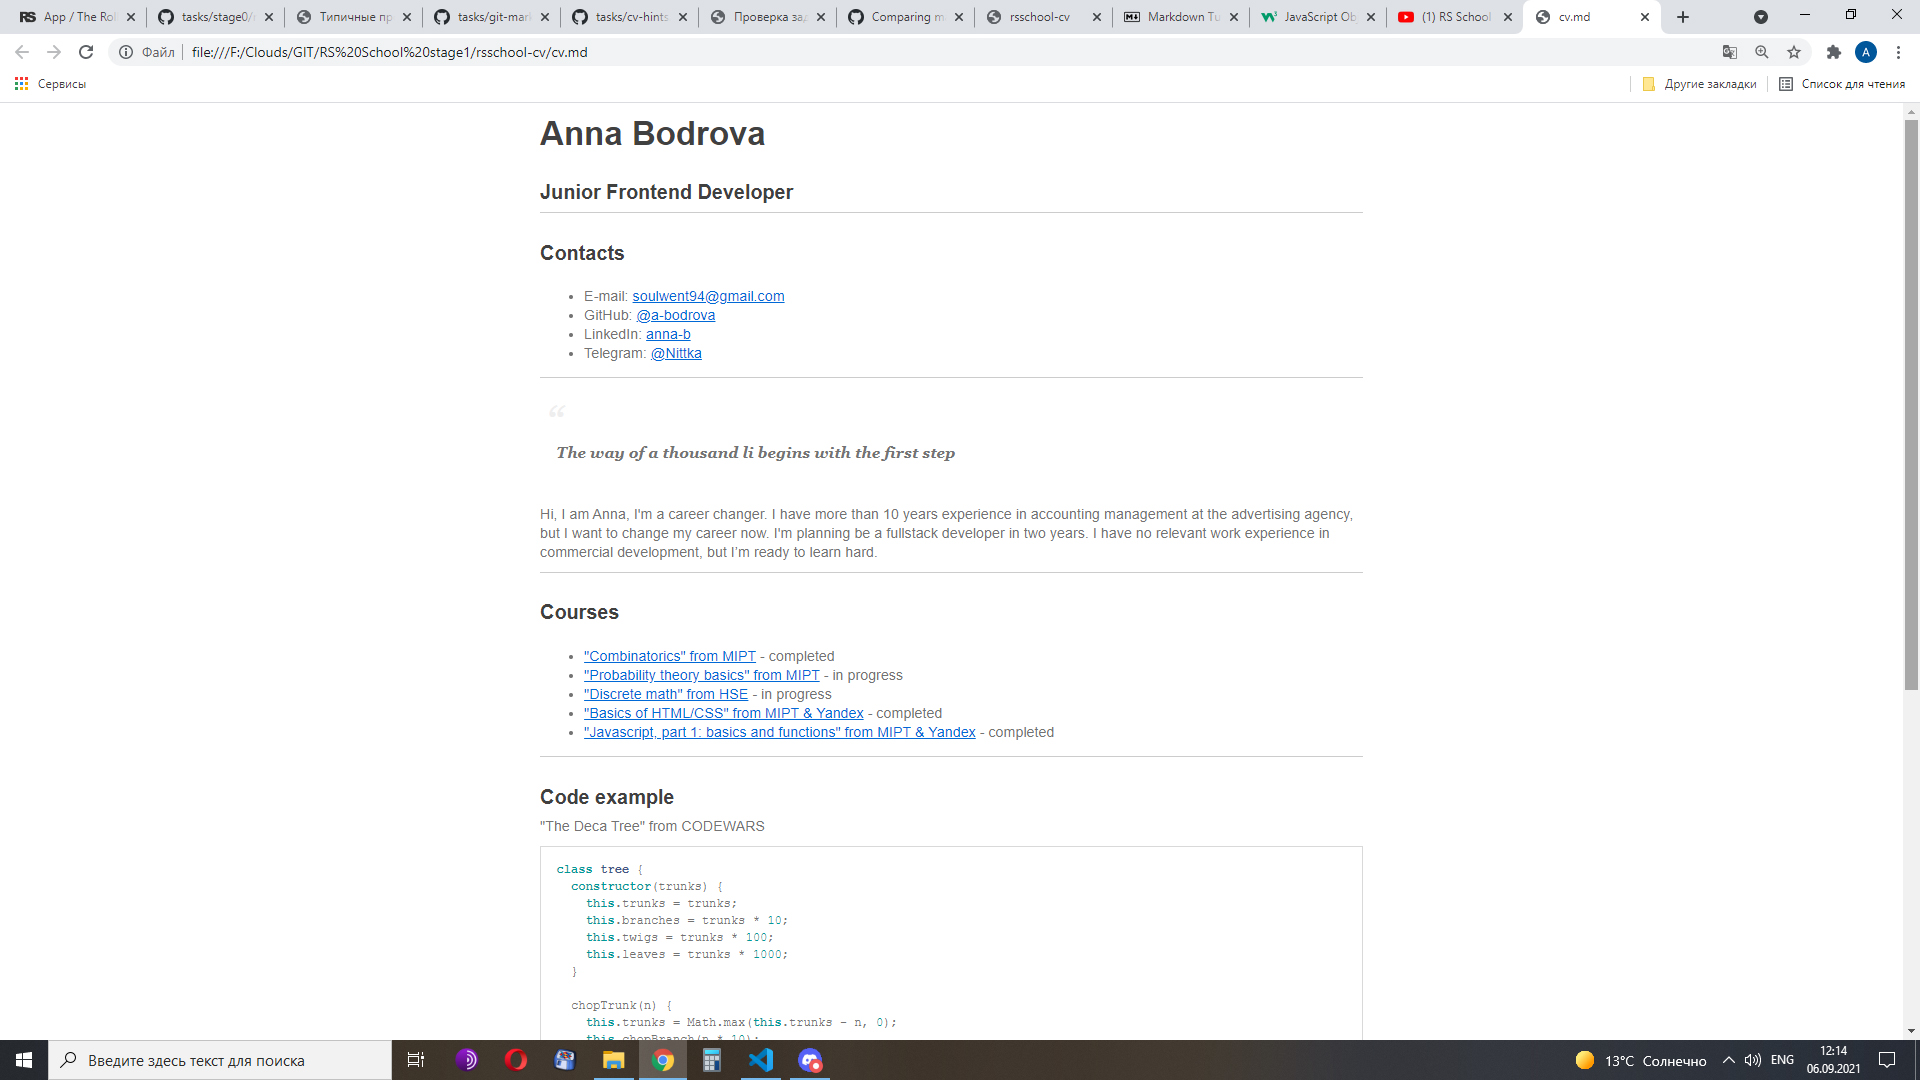
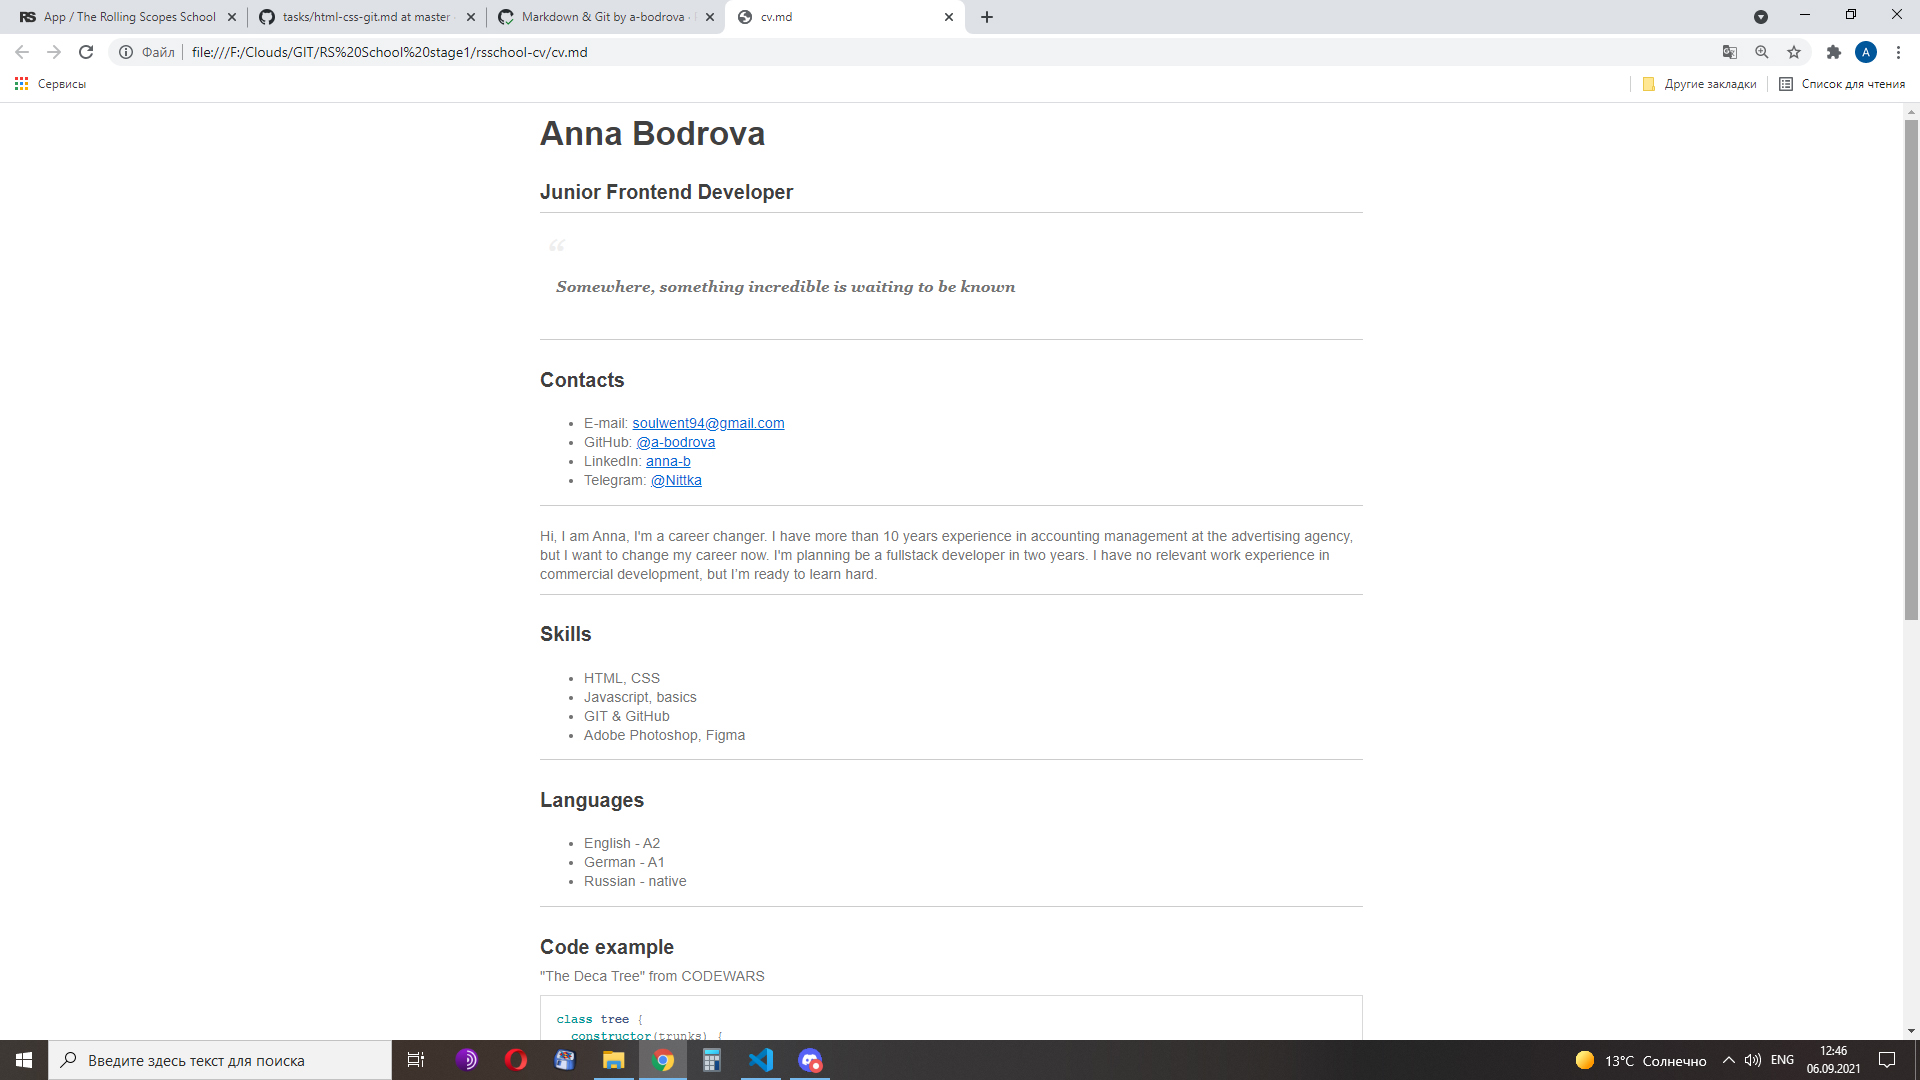
feat: update cv project

diff --git a/index.html b/index.html
@@ -1,0 +1,166 @@
+<!DOCTYPE html>
+<html lang="en">
+<head>
+    <meta charset="UTF-8">
+    <meta http-equiv="X-UA-Compatible" content="IE=edge">
+    <meta name="viewport" content="width=device-width, initial-scale=1.0">
+    <link rel="stylesheet" href="style.css">
+    <link rel="preconnect" href="https://fonts.googleapis.com">
+    <link rel="preconnect" href="https://fonts.gstatic.com" crossorigin>
+    <link href="https://fonts.googleapis.com/css2?family=Courgette&display=swap" rel="stylesheet">
+    <title>Anna Bodrova - CV</title>
+</head>
+<body>
+    <header class="header">
+        <div class="header-wrap">            
+            <div class="personal-wrap">
+                <img src="./assets/img/avatar.jpg" alt="Avatar">
+                <div class="texts">
+                    <h1>Anna Bodrova</h1>
+                    <h2>Junior Frontend Developer</h2>
+                    <img src="https://www.codewars.com/users/a-bodrova/badges/small" alt="Codewars badge">
+                </div>
+            </div>
+            <div class="quote-wrap">
+                <blockquote>"Somewhere, something incredible is waiting to be known"</blockquote>
+            </div>
+        </div>
+    </header>
+    <main>
+        <div class="main-wrap">
+            <section class="section">                
+                <div class="headline">
+                    <h3>About me</h3>
+                </div>
+                <div class="block-item">
+                    <p>Hi, I am Anna, I'm a career changer.
+                        I have more than 10 years experience in accounting management
+                        at the advertising agency, but I want to change my career now.
+                        I'm planning be a fullstack developer in two years. I have
+                        no relevant work experience in commercial development, but I’m ready to learn hard.</p>
+                </div>            
+                <div class="headline">
+                    <h3>Courses</h3>
+                </div>
+                <div class="block-item">
+                    <ul>
+                        <li><a href="https://coursera.org/share/3d640ac0ea1977a0fda0b2780a69224b">"Combinatorics" from MIPT</a></li>
+                        <li><a href="https://www.coursera.org/learn/probability-theory-basics/home/welcome">"Probability theory basics" from MIPT</a></li>
+                        <li><a href="https://www.coursera.org/learn/discrete-math/home/welcome">"Discrete math" from HSE</a></li>
+                        <li><a href="https://coursera.org/share/dd424b84b03aba84bbb06dc18cea5eed">"Basics of HTML/CSS" from MIPT & Yandex</a></li>
+                        <li><a href="https://coursera.org/share/3d077feead563eb46630d0804959c7e0">"Javascript, part 1: basics and functions" from MIPT & Yandex</a></li>
+                    </ul>
+                </div>                
+                <div class="headline">
+                    <h3>Skills</h3>
+                </div>
+                <div class="block-item">
+                    <ul>
+                        <li>HTML, CSS</li>
+                        <li>Javascript, basics</li>
+                        <li>GIT & GitHub</li>
+                        <li>Adobe Photoshop, Figma</li>
+                    </ul>
+                </div>            
+                <div class="headline">
+                    <h3>Languages</h3>
+                </div>
+                <div class="block-item">
+                    <ul>
+                        <li>Russian - native</li>
+                        <li>English - A2</li>
+                        <li>German - A1</li>
+                    </ul>
+                </div>            
+                <div class="headline">
+                    <h3>Code example</h3>
+                </div>
+                <div class="block-item">
+                    "The Deca Tree" from CODEWARS
+                <pre>
+                <code>
+                    class tree {
+                        constructor(trunks) {
+                            this.trunks = trunks;
+                            this.branches = trunks * 10;
+                            this.twigs = trunks * 100;
+                            this.leaves = trunks * 1000;
+                        }
+                            
+                        chopTrunk(n) {
+                            this.trunks = Math.max(this.trunks - n, 0);
+                            this.chopBranch(n * 10);
+                        }
+                            
+                        chopBranch(n) {
+                            this.branches = Math.max(this.branches - n, 0);
+                            this.chopTwig(n * 10);
+                        }
+                            
+                        chopTwig(n) {
+                            this.twigs = Math.max(this.twigs - n, 0);
+                            this.chopLeaf(n * 10);
+                        }
+                            
+                        chopLeaf(n) {
+                            this.leaves = Math.max(this.leaves - n, 0);
+                        }
+                            
+                        describe() {
+                            return
+                            `This tree has ${this.trunks} trunks, ${this.branches} branches, ${
+                            this.twigs} twigs and ${this.leaves} leaves.`
+                        }                            
+                    }
+                    </code>
+                </pre>
+                </div>
+            </section>
+            <aside class="aside">
+                <div class="headline contacts">
+                    <h3>Contacts</h3>
+                    <ul>
+                        <li>
+                            <a href="mailto:soulwent94@gmail.com">
+                                <img src="./assets/png/email_gmail.png" alt="go to write e-mail" class="icons">
+                                soulwent94@gmail.com
+                            </a>
+                        </li>
+                        <li>
+                            <a href="https://github.com/a-bodrova">
+                                <img src="./assets/png/GitHub-Mark-32px.png" alt="go to GitHub" class="icons">
+                                GitHub
+                            </a>
+                        </li>
+                        <li>
+                            <a href="https://ru.linkedin.com/in/anna-b-4b989818b/">
+                                <img src="./assets/png/LI-In-Bug.png" alt="go to LinkedIn profile" class="icons">
+                                LinkedIn
+                            </a>
+                        </li>
+                        <li>
+                            <a href="https://t.me/Nittka">
+                                <img src="./assets/png/Logo.png" alt="go to Telegram" class="icons">
+                                Telegram
+                            </a>
+                        </li>
+                    </ul>
+                </div>
+            </aside>
+        </div>
+    </main>
+    <footer class="footer">
+        <div class="github">
+            <a href="https://github.com/a-bodrova">
+                <img src="./assets/png/GitHub_logo.png" alt="Link to GitHub">
+            </a>
+        </div>
+        <div class="year">&copy;2021</div>
+        <div class="rsschool">
+            <a href="https://rs.school/js/">
+                <img src="./assets/png/rs_school_js.svg" alt="Link to RS School" width="150">
+            </a>
+        </div>
+    </footer>
+</body>
+</html>

diff --git a/style.css b/style.css
@@ -1,0 +1,132 @@
+* {
+    margin: 0;
+    padding: 0;
+    /* box-sizing: border-box; */
+}
+
+html {
+    max-width: 1240px;
+    margin: auto;
+    font-family: Verdana, sans-serif;
+}
+
+main {
+    width: 1240px;
+} 
+
+.header,
+.footer {
+    max-width: 1240px;
+    height: 160px;
+    padding: 20px;
+    display: flex;
+    flex-direction: row;
+    align-items: center;
+    justify-content: space-between;
+    background-color: hsl(0, 29%, 82%);
+}
+
+.footer {
+    height: 80px;
+}
+
+.header-wrap {
+    display: flex;
+    flex-direction: row;
+    justify-content: right;
+    margin: auto;
+}
+
+.personal-wrap {
+    width: 600px;
+    height: 160px;
+    display: flex;
+    flex-direction: row;
+    align-items: center;
+    justify-content: baseline;
+}
+
+.personal-wrap > img:first-child {
+    max-width: 150px;
+    height: 150px;
+    border: 5px solid #444;
+}
+
+.texts {
+    max-width: 400px;
+    text-align: left;
+    margin-left: 20px;
+}
+
+h1,
+h2,
+.texts > img {
+    margin-top: 10px;
+}
+
+h2 {
+    color: #444;
+}
+
+.quote-wrap {
+    width: 600px;
+    height: 100px;
+    font-family: 'Courgette', cursive;
+    font-size: 1.2em;
+    text-align: right;
+}
+
+.main-wrap {
+    display: flex;
+    flex-direction: row;
+    align-items: flex-start;
+    justify-content: space-between;
+}
+
+.section {
+    width: 980px;
+}
+
+.aside {
+    max-width: 260px;
+}
+
+.headline {
+    height: 26px;
+    background-color: #444;
+}
+
+h3 {
+    color: #fff;
+    text-align: left;
+    margin: 0 20px 20px 20px;
+}
+
+.icons {
+    height: 16px;
+}
+
+ul {
+    list-style: none;
+    margin: 20px;
+}
+
+.contacts a {
+    line-height: 2;
+}
+
+
+a {
+    text-decoration: none;
+    color: #444;
+}
+
+a:hover {
+    color: #dfa6a6;
+}
+
+.block-item {
+    max-width: 980px;
+    margin: 20px;
+    line-height: 1.5;
+}
